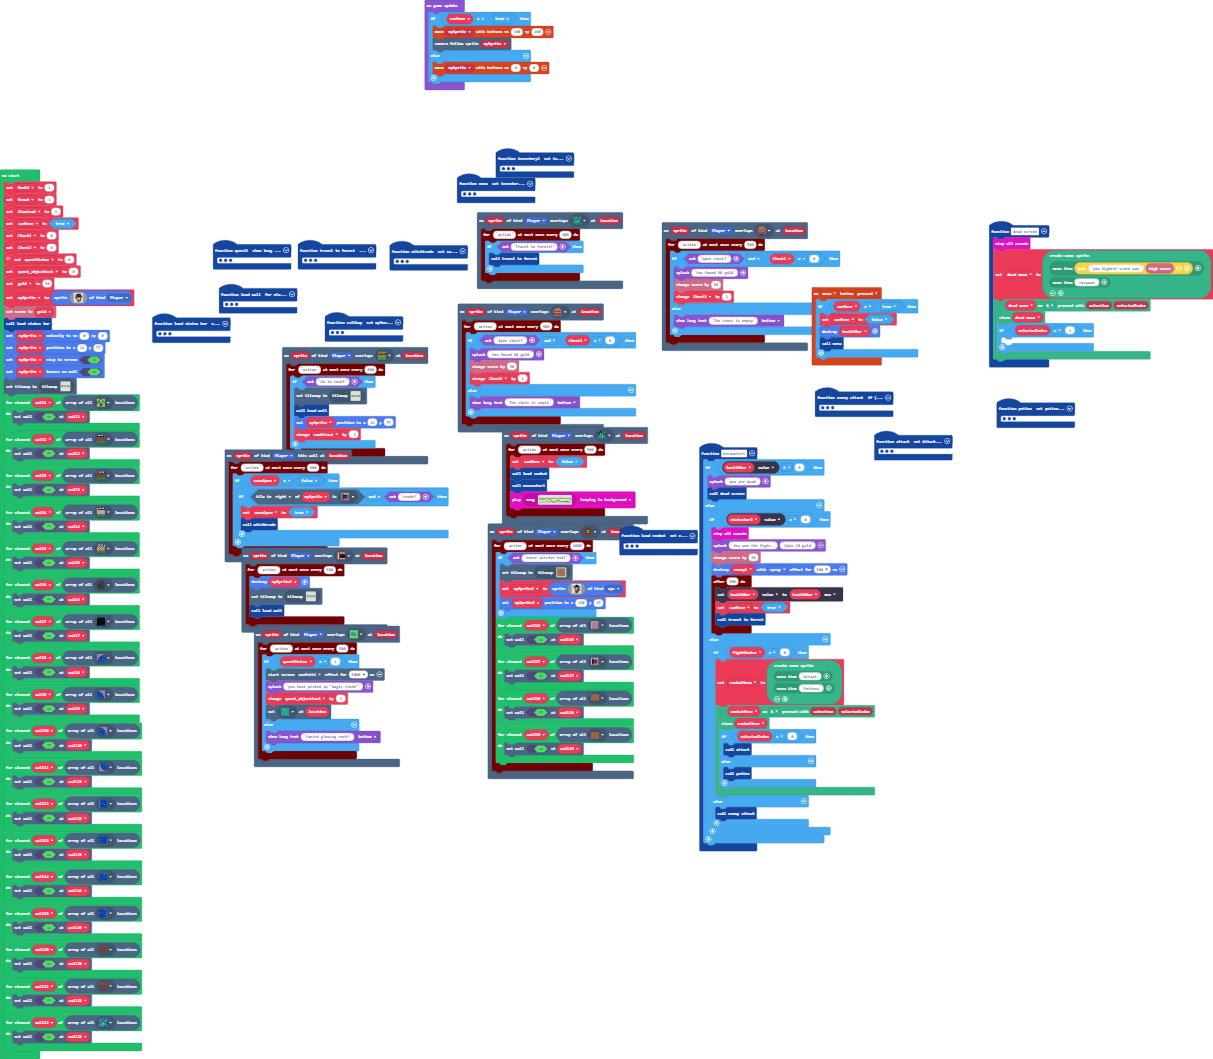
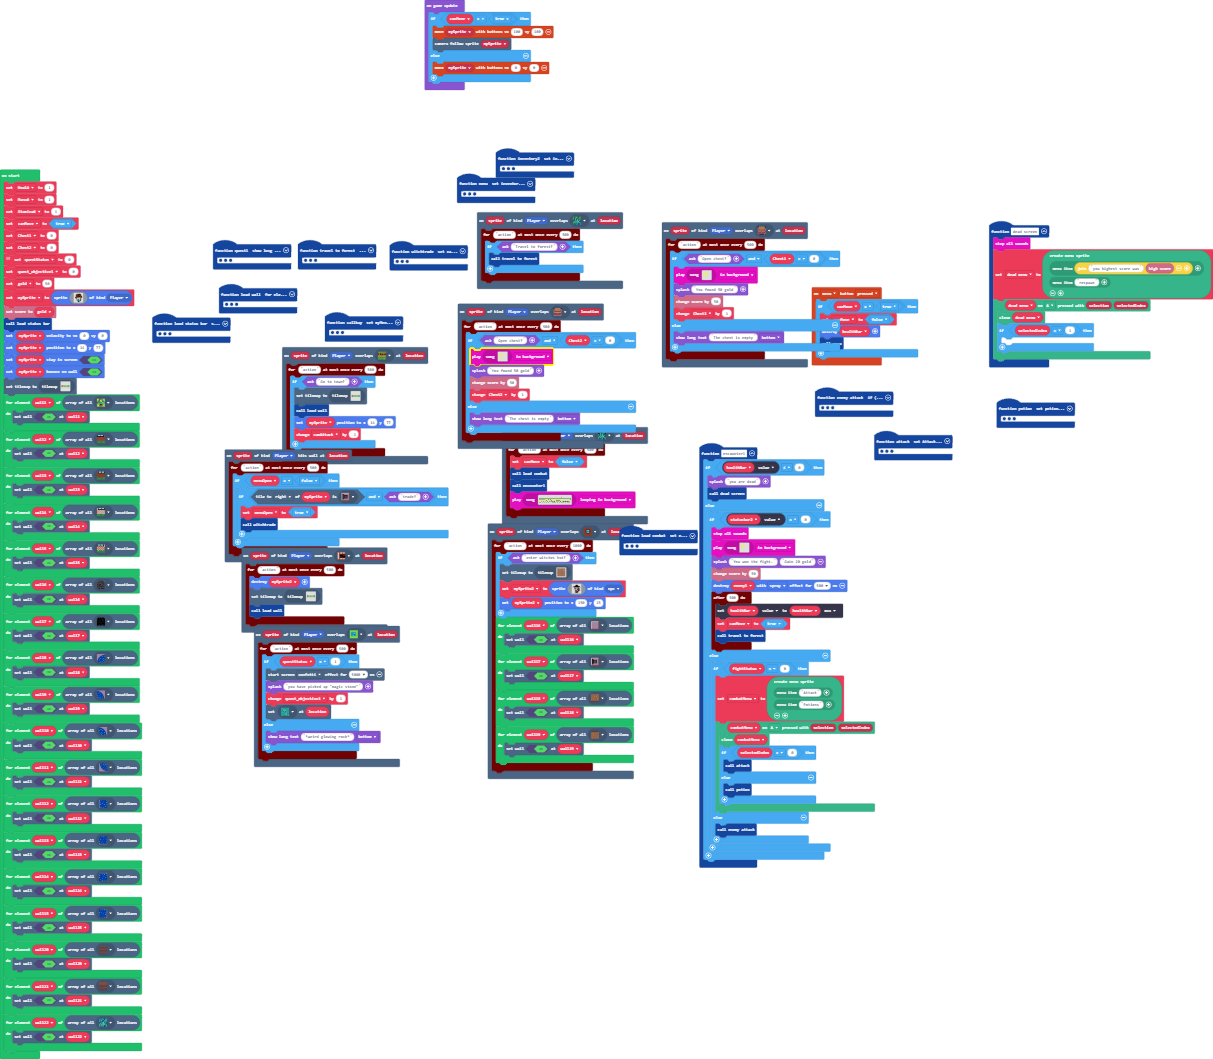
victory and chest sound

Changed region(s): [[0.5796, 0.4986, 0.7321, 0.8414], [0.366, 0.3116, 0.5491, 0.4363], [0.5491, 0.2493, 0.7016, 0.3739]]

diff --git a/images.g.ts b/images.g.ts
@@ -352,6 +352,8 @@ namespace myImages {
[1 lines of base64/hex data omitted]
             case "song2":
[1 lines of base64/hex data omitted]
+            case "song3":
[1 lines of base64/hex data omitted]
         }
         return null;
     })

diff --git a/main.ts b/main.ts
@@ -335,6 +335,7 @@ function encounter1 () {
     } else {
         if (statusbar2.value == 0) {
             music.stopAllSounds()
+            music.play(music.createSong(assets.song`open chest`), music.PlaybackMode.InBackground)
             game.splash("You won the fight.", "Gain 20 gold")
             info.changeScoreBy(50)
             sprites.destroy(enemy1, effects.spray, 500)
@@ -366,6 +367,7 @@ function encounter1 () {
 scene.onOverlapTile(SpriteKind.Player, assets.tile`chest2`, function (sprite, location) {
     timer.throttle("action", 500, function () {
         if (game.ask("Open chest?") && Chest2 == 0) {
+            music.play(music.createSong(assets.song`open chest`), music.PlaybackMode.InBackground)
             game.splash("You found 50 gold")
             info.changeScoreBy(50)
             Chest2 += 1
@@ -421,6 +423,7 @@ function potion () {
 scene.onOverlapTile(SpriteKind.Player, assets.tile`chest1`, function (sprite, location) {
     timer.throttle("action", 500, function () {
         if (game.ask("Open chest?") && Chest1 == 0) {
+            music.play(music.createSong(assets.song`open chest`), music.PlaybackMode.InBackground)
             game.splash("You found 50 gold")
             info.changeScoreBy(50)
             Chest1 += 1
